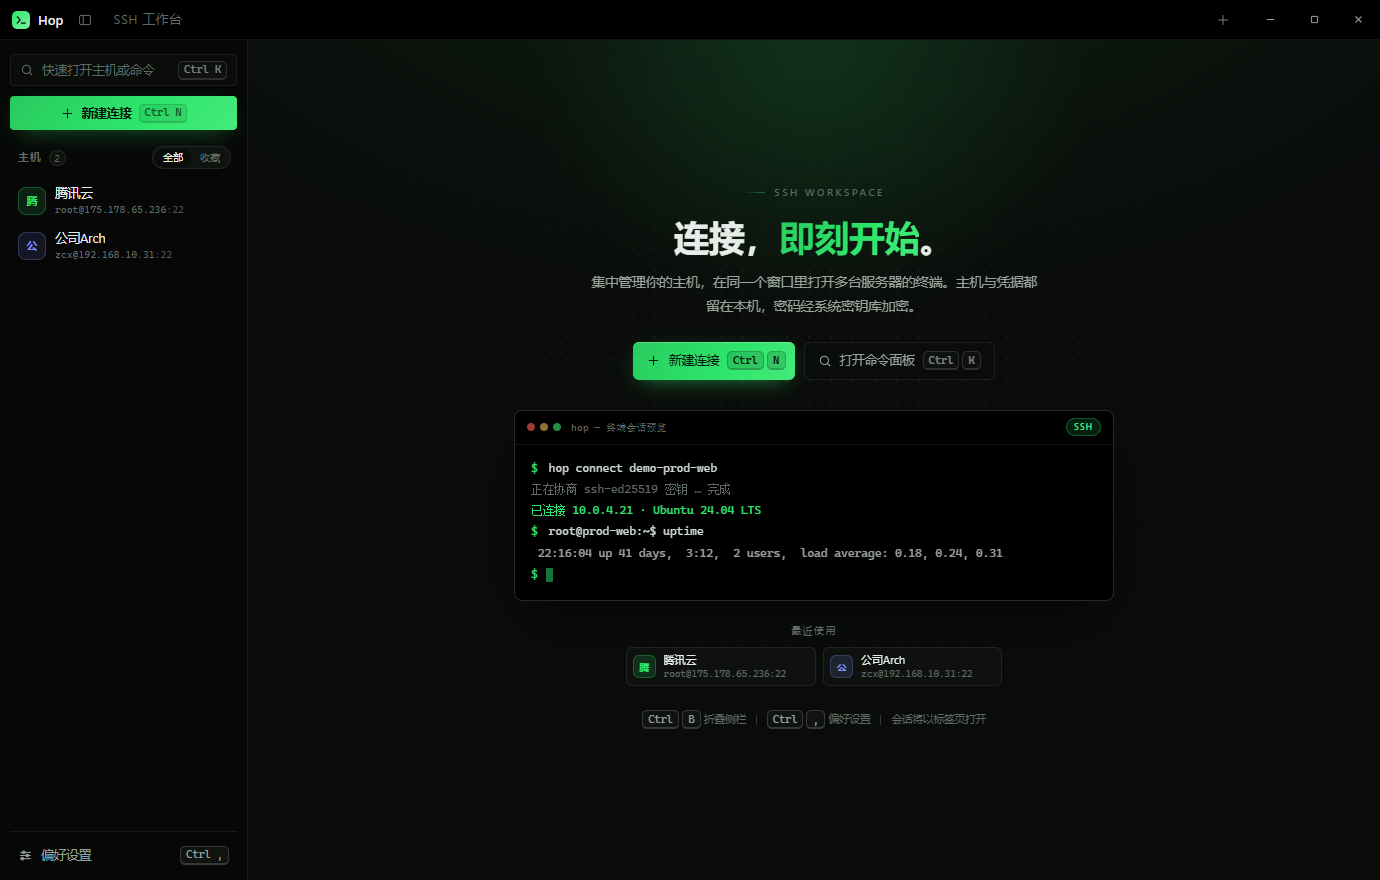
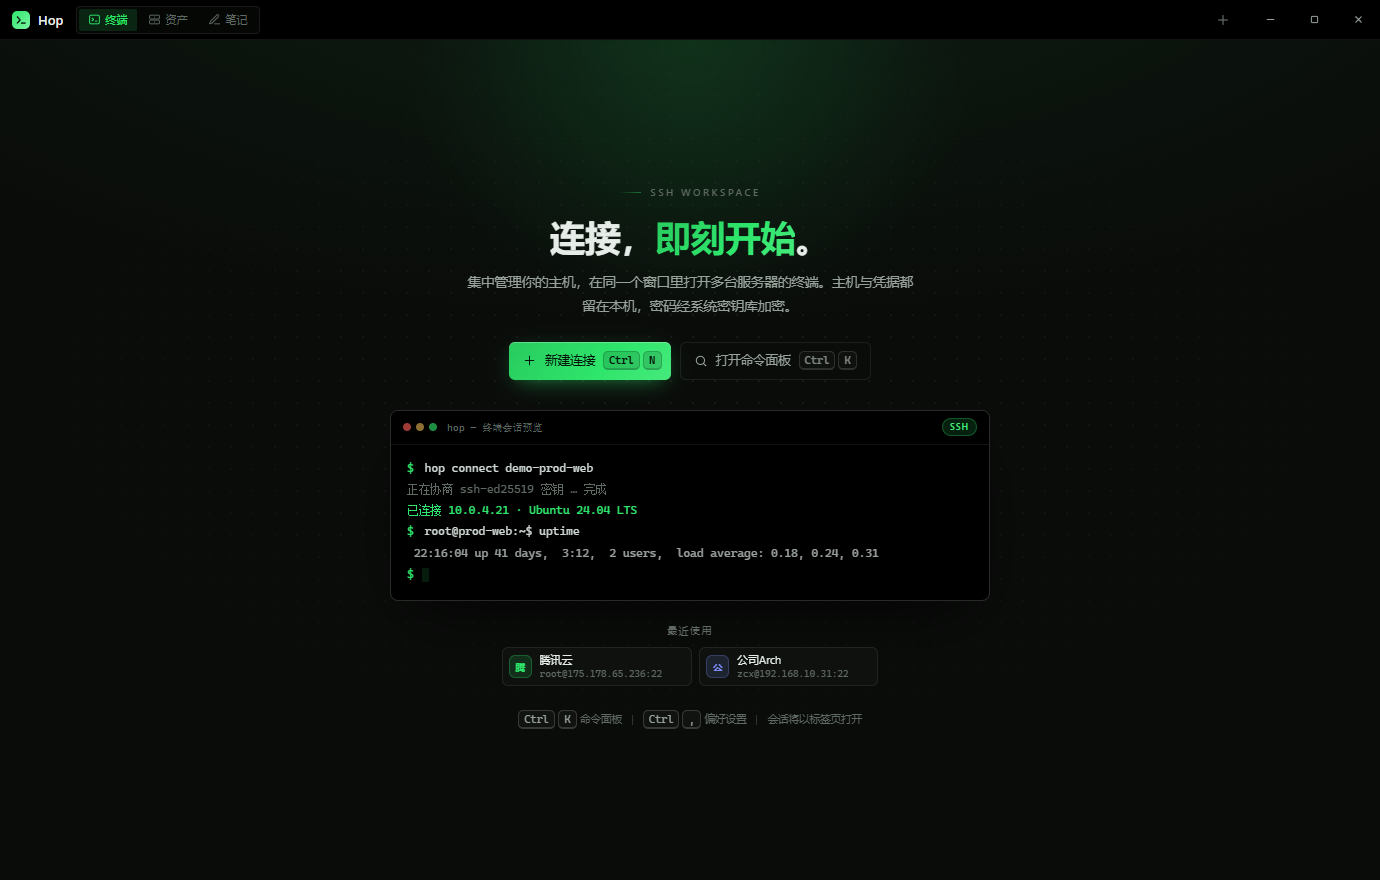
docs: 全部展示截图按 0.0.3 新界面重拍（三页导航/左侧文件/右侧状态/笔记/速记），README 图床重排

diff --git a/README.md b/README.md
@@ -16,18 +16,20 @@
 | 终端会话 · 左侧文件传输 + 右侧主机状态 | 多会话标签（同一主机可开多个） |
 | --- | --- |
 | ![终端](docs/screenshots/terminal.png) | ![多会话标签](docs/screenshots/tabs.png) |
-| **命令面板** | **新建连接** |
-| ![命令面板](docs/screenshots/command-palette.png) | ![新建连接](docs/screenshots/host-form.png) |
-| **文件右键菜单** | **主机状态：逐行纵向排列** |
+| **资产页：列表式主机管理** | **笔记页：Markdown + 即时渲染** |
+| ![资产页](docs/screenshots/assets.png) | ![笔记](docs/screenshots/notes.png) |
+| **速记浮层：不离开会话随手记** | **命令面板** |
+| ![速记](docs/screenshots/quicknote.png) | ![命令面板](docs/screenshots/command-palette.png) |
+| **文件右键菜单** | **主机状态：逐行纵向排版** |
 | ![右键菜单](docs/screenshots/dock-menu.png) | ![主机状态](docs/screenshots/monitor-detail.png) |
-| **速记浮层 / 笔记页** | **偏好设置** |
-| ![速记](docs/screenshots/quicknote.png) | ![偏好设置](docs/screenshots/settings.png) |
+| **新建连接** | **偏好设置** |
+| ![新建连接](docs/screenshots/host-form.png) | ![偏好设置](docs/screenshots/settings.png) |
 | **连接动效：握手进行中** | **连接动效：握手完成** |
 | ![连接中](docs/screenshots/connect.png) | ![已连接](docs/screenshots/connect-done.png) |
 | **浅色主题：欢迎页（纯白 + 墨绿）** | **浅色主题：终端** |
 | ![浅色欢迎页](docs/screenshots/welcome-light.png) | ![浅色终端](docs/screenshots/terminal-light.png) |
-| **资产页：列表式主机管理** | **资产页（浅色）** |
-| ![资产页](docs/screenshots/assets.png) | ![资产页浅色](docs/screenshots/assets-light.png) |
+| **浅色主题：资产页** | **浅色主题：笔记页** |
+| ![浅色资产页](docs/screenshots/assets-light.png) | ![浅色笔记页](docs/screenshots/notes-light.png) |
 
 | 能力 | 说明 |
 | --- | --- |
